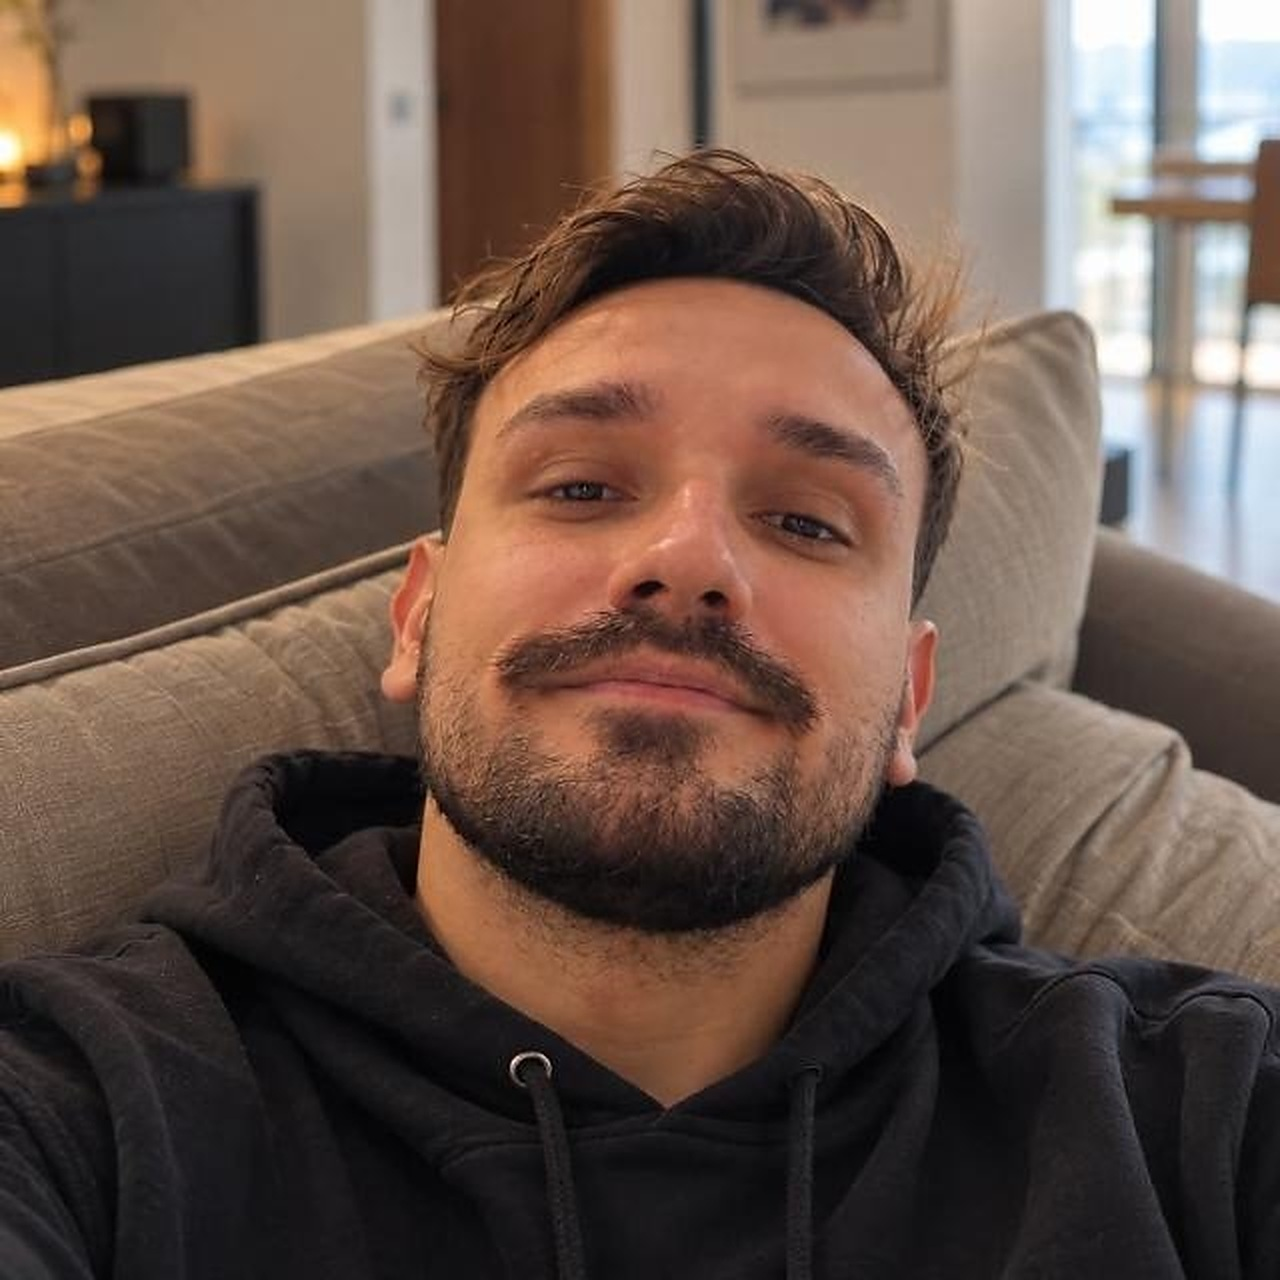
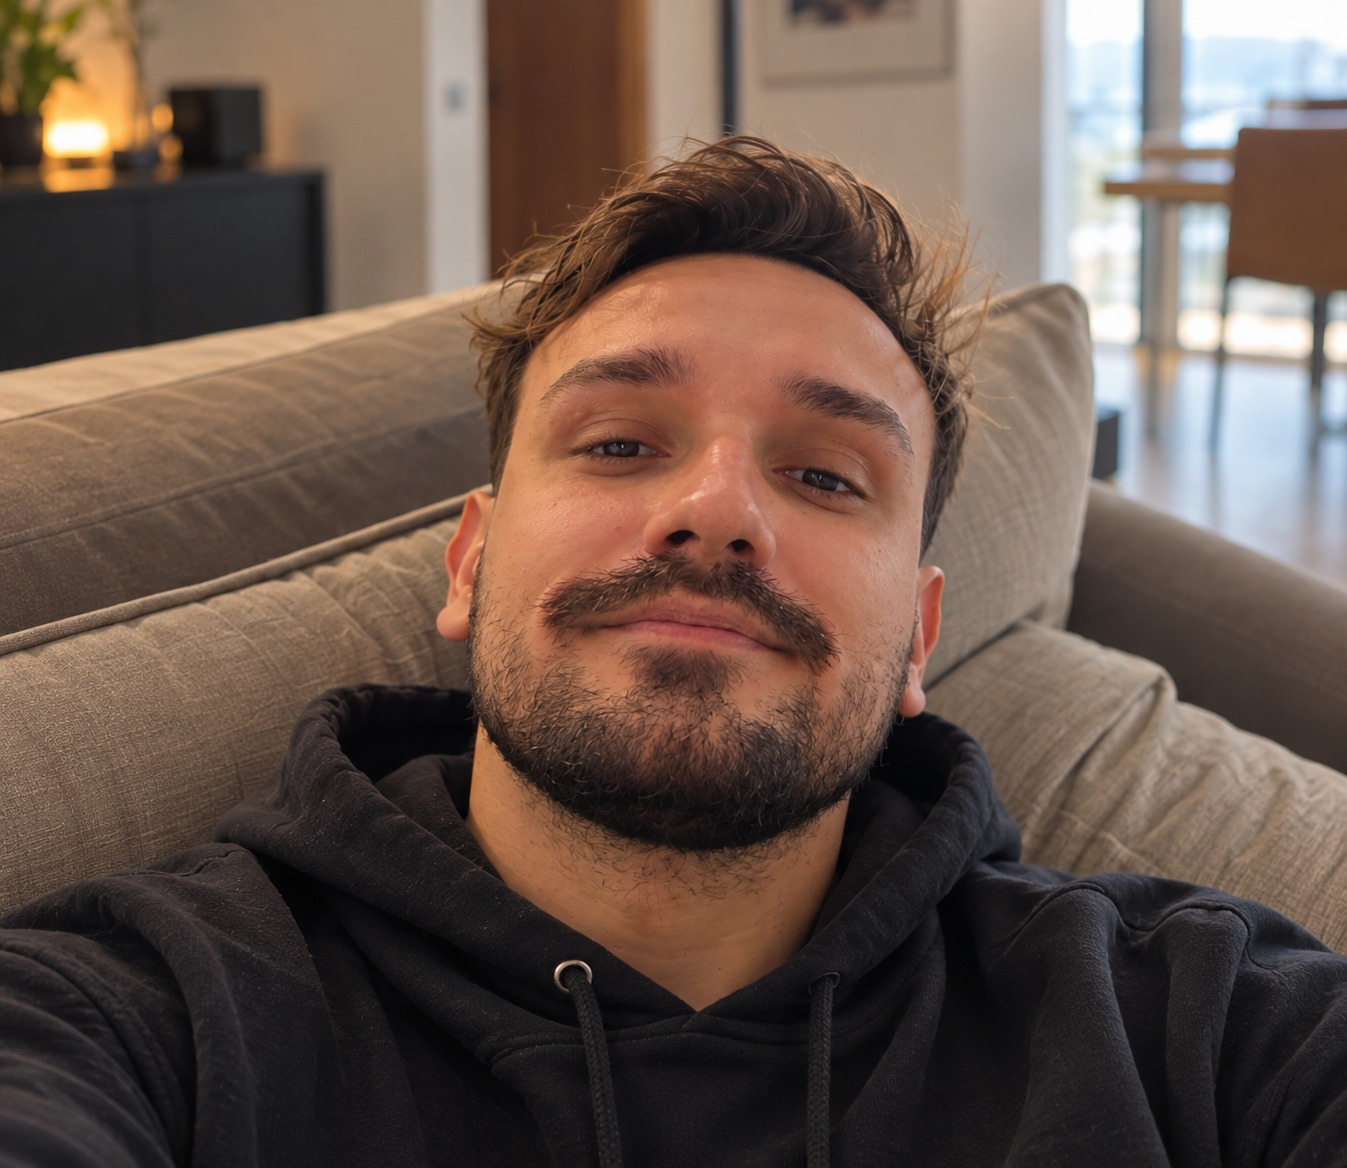
fix(foto): usa o arquivo original enviado pelo Rod, sem compressão do Telegram

diff --git a/index.html b/index.html
@@ -113,7 +113,7 @@
       <div class="grid">
         <div class="lbl">
           <h2 class="mono" id="sobre-titulo">Sobre</h2>
-          <figure class="ph"><img src="/assets/rodrigo.jpg" alt="Rodrigo Stölben" width="1280" height="1280" loading="lazy" /></figure>
+          <figure class="ph"><img src="/assets/rodrigo.jpg" alt="Rodrigo Stölben" width="1347" height="1168" loading="lazy" /></figure>
         </div>
         <div class="body about">
           <p class="lead">Estou me graduando em Análise e Desenvolvimento de Sistemas na PUCRS e aprendo do jeito que mais gosto: construindo sistemas de verdade, do começo ao fim.</p>
